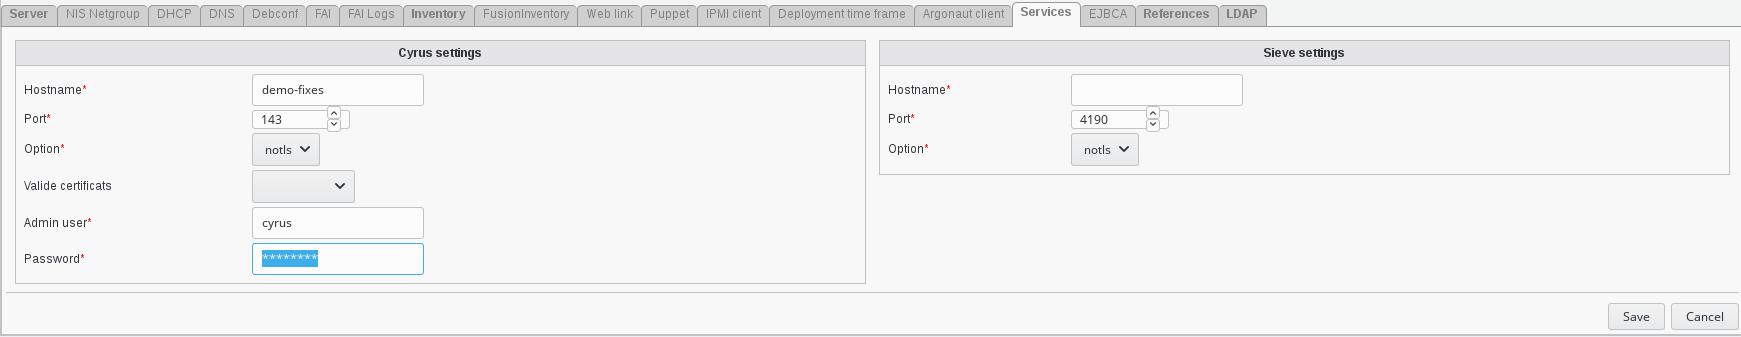
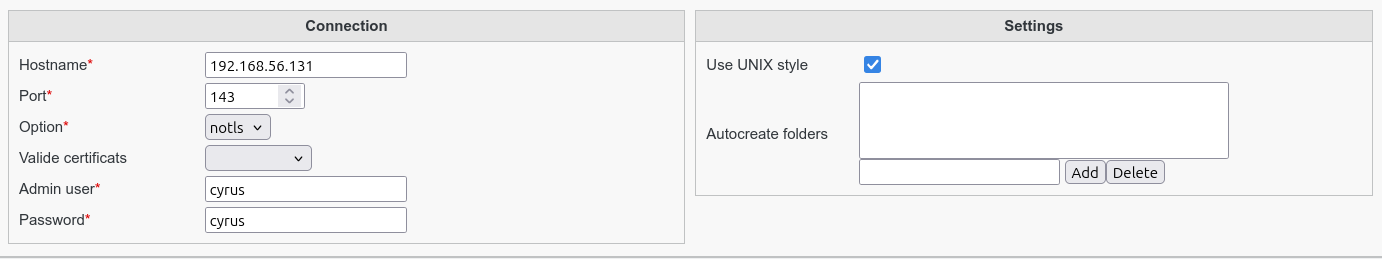
:sparkles: feat(cyrus): Remove sieve mention and update picture
Remove sieve mention and update picture

diff --git a/source/fusiondirectory/plugins/cyrus/functionalities.rst b/source/fusiondirectory/plugins/cyrus/functionalities.rst
@@ -42,14 +42,6 @@ Cyrus settings
     * Admin user: (required) Imap server admin user.
     * Password: (required) Admin user password.
     
-    
-Sieve settings
-
-    * Hostname: Hostname of the Cyrus Sieve server.
-    * Port: Port number on which Cyrus Sieve server should be contacted.
-    * Option: (required) Options for contacting Cyrus Sieve server. Valid values are notls, tls and ssl.
-    
-    
 Click on 'save'
 
 
